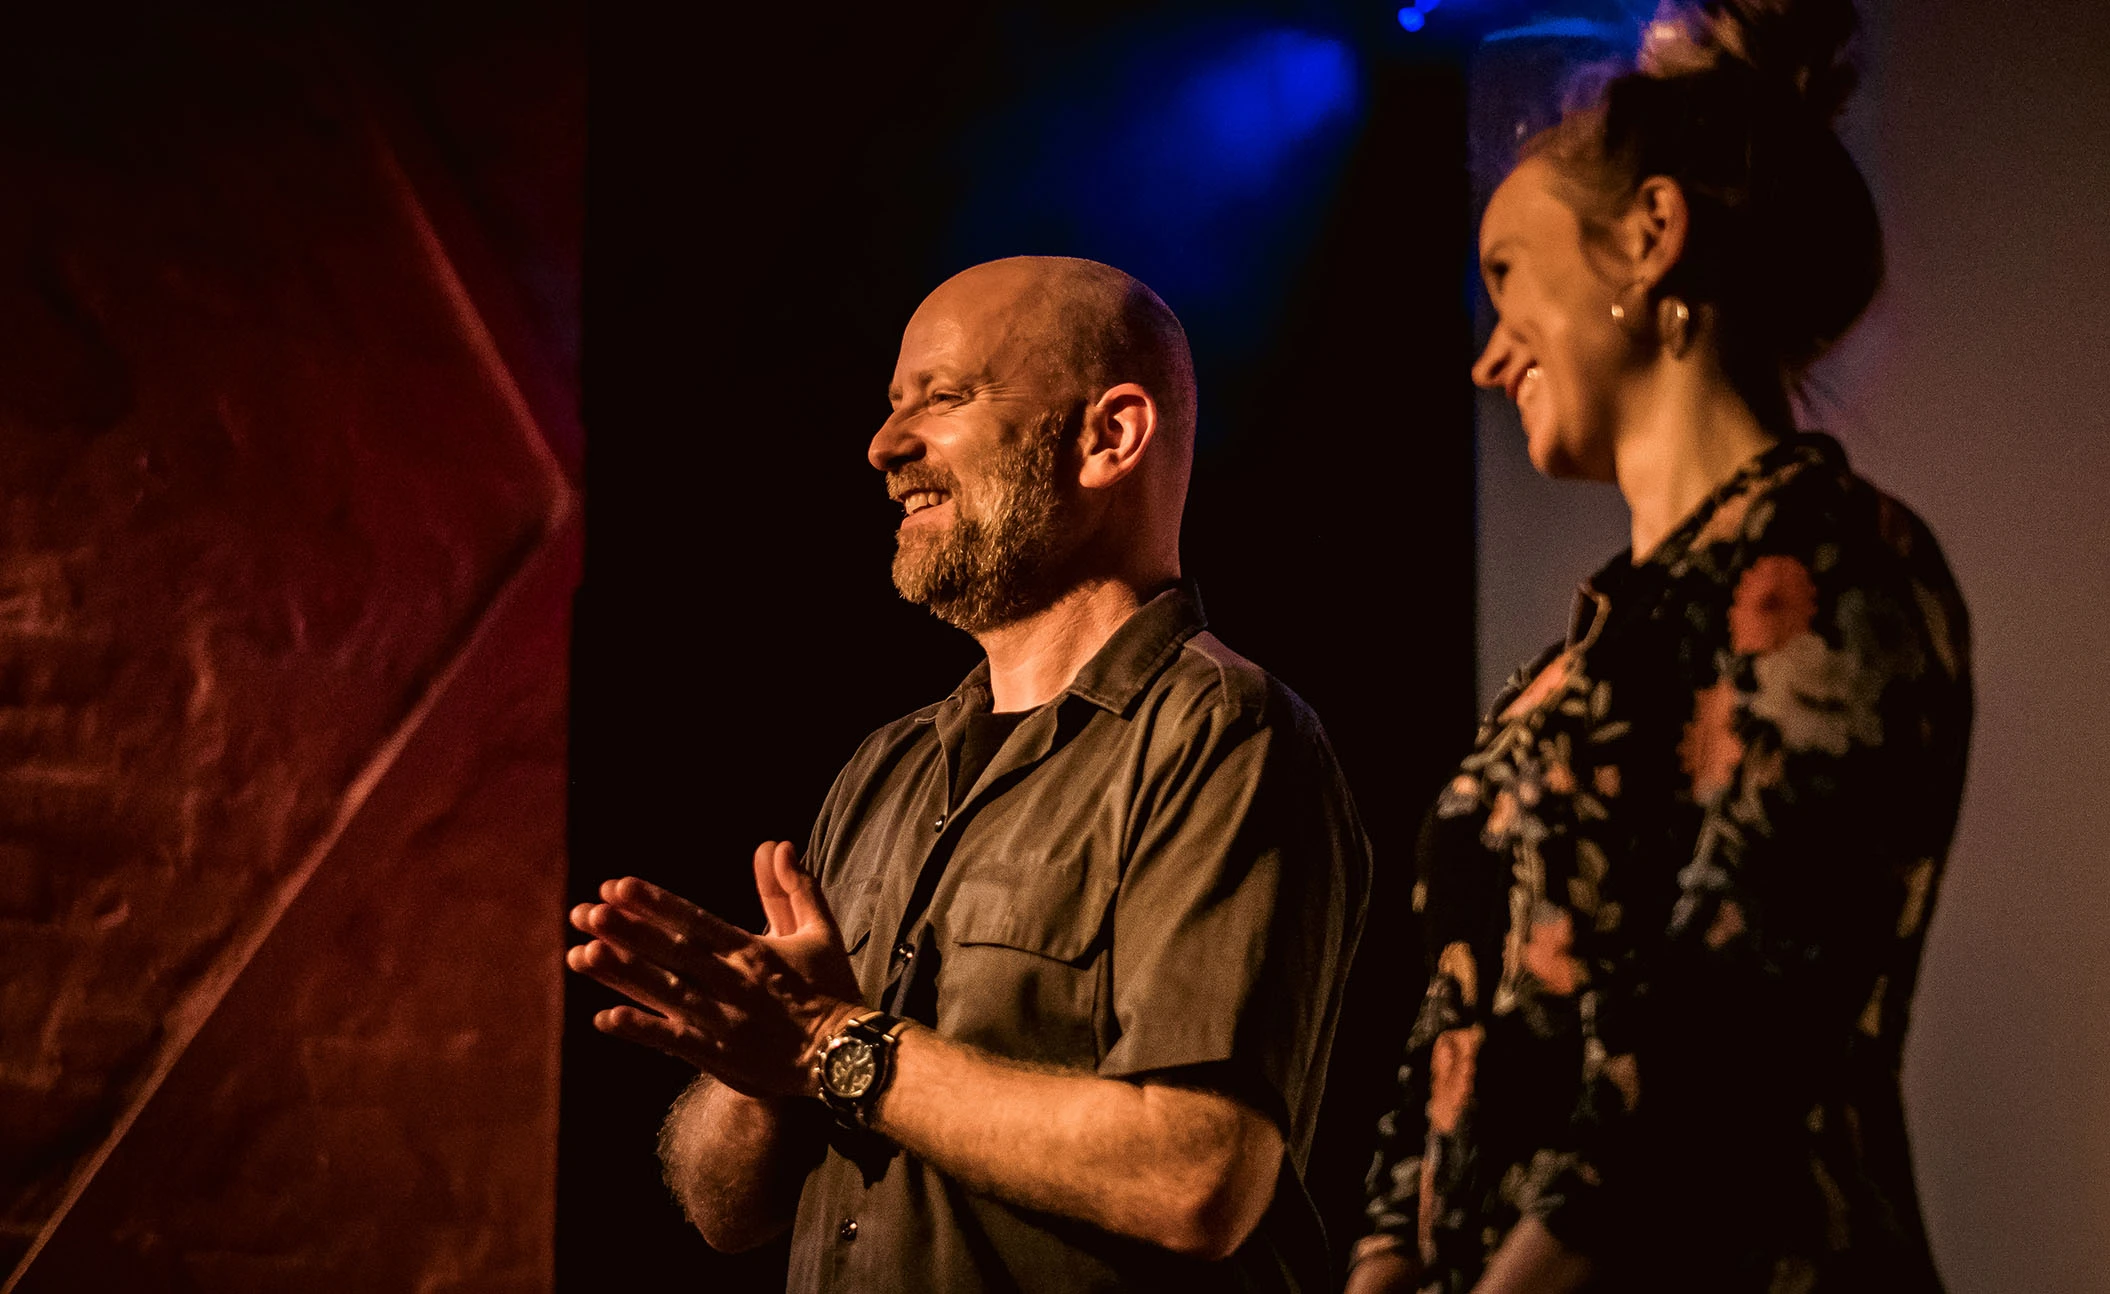
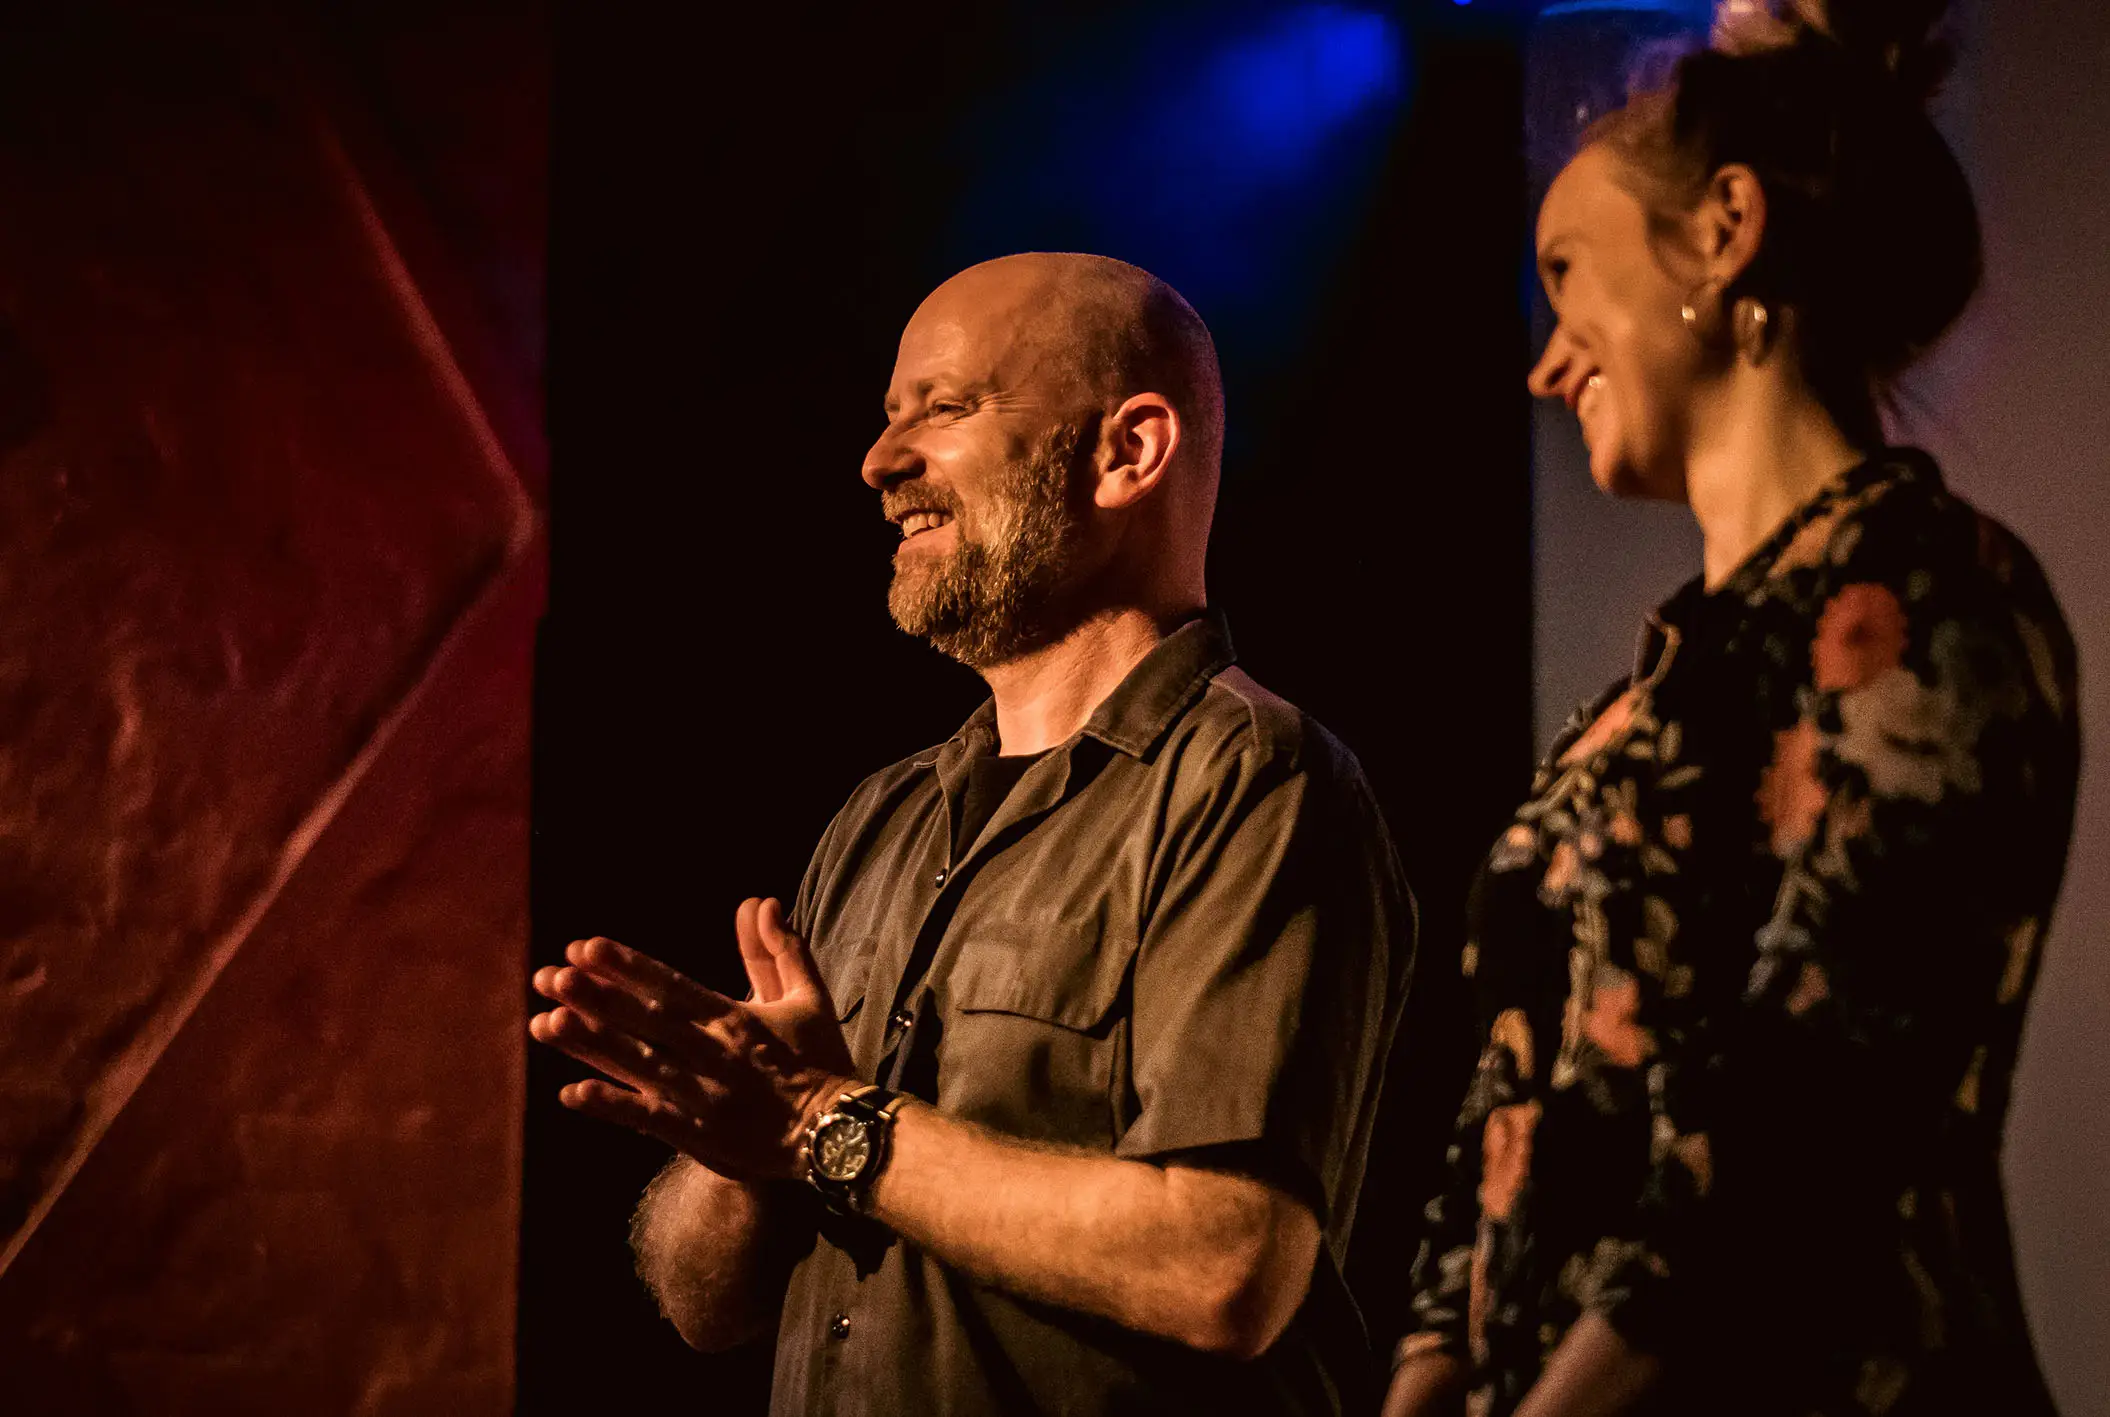
more commits

diff --git a/styles.css b/styles.css
@@ -825,6 +825,7 @@ font-size: 3.5vw;
 
 @media screen and (min-width: 768px) {
     #workshop-heroImage {
+        background-position-y: -20%;
         height: 42vw;
         top: 0;
     }
@@ -900,6 +901,7 @@ td {
 
 @media screen and (min-width: 768px) {
     #omMig-heroImage {
+        background-position-y: -10%;
         height: 42vw;
         top: 0;
     }
